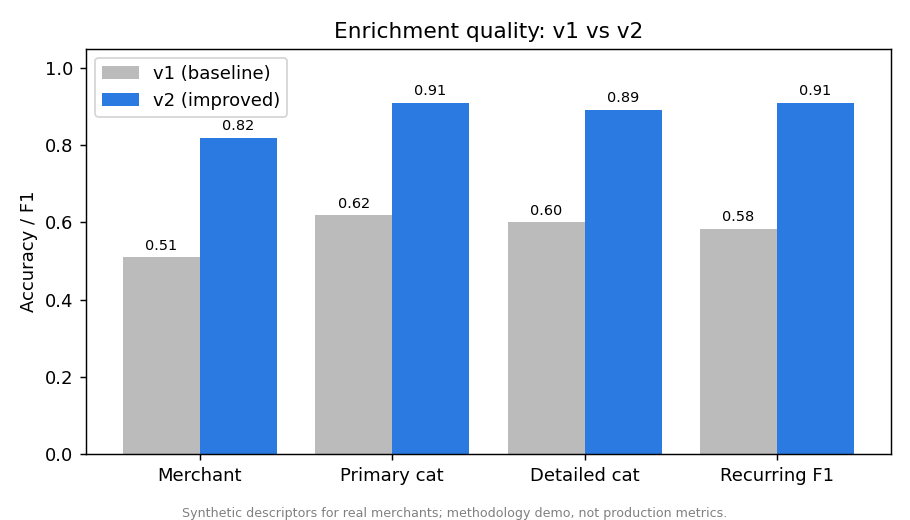
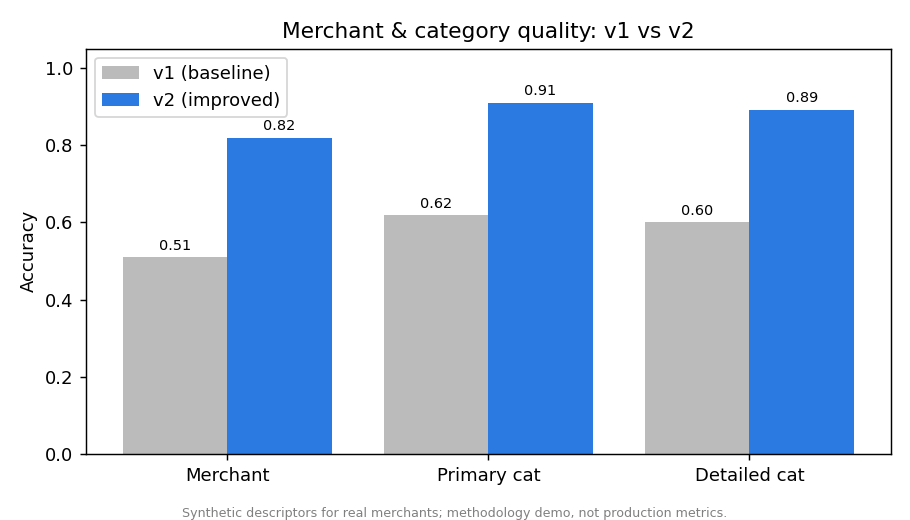
EnrichEval: reframe recurring as failure-mode demo, refresh accuracy figure

diff --git a/docs/projects/enrich-eval.html b/docs/projects/enrich-eval.html
@@ -243,7 +243,7 @@ Note
 </figure>
 </div>
 <p><strong>Finding 3 — “Better on average” can still break things.</strong> v2 improved 18 merchants but <em>broke one</em>: its smart new rule for delivery apps saw the <code>PYPL</code> (PayPal) prefix on a Steam game purchase and mislabeled it as PayPal, when v1 had correctly called it Steam. The rule that fixed many transactions quietly broke this one. <strong>This is the entire reason you run an evaluation on every change</strong> — a release that improves the average can still ship a specific, customer-visible regression.</p>
-<p><strong>Finding 4 — Some things can’t be known from one transaction.</strong> Recurring-subscription detection lands at an F1 of 0.91, and it’s deliberately not higher. You usually can’t tell a subscription from a single line of text — you’d need to see the charge repeat each month. The harness includes cases that prove it: a real gym membership with no telltale word (the system misses it) and a one-off purchase at a store named “Monthly Market” (the word <em>monthly</em> wrongly trips the recurring flag). An earlier draft scored a suspicious 1.0 here; that was an artifact of a tiny answer key, and adding cases the rule genuinely can’t solve replaced a misleading perfect score with an honest one. The real fix is looking at transaction history, not writing a cleverer rule for a single string.</p>
+<p><strong>Finding 4 — Some things can’t be known from one transaction.</strong> Recurring-subscription detection is the one thing here I <em>don’t</em> report as a headline score, on purpose. Whether a charge is part of a subscription is a fact about a <em>series</em> of transactions, so a system — or an evaluation — that sees one line at a time can’t honestly measure it. The harness keeps recurring as a failure-mode demonstration instead: a real gym membership with no telltale word gets missed, and a one-off purchase at a store named “Monthly Market” wrongly trips the flag because of the word <em>monthly</em>. (An earlier draft scored a perfect 1.0 here. That was an artifact of a tiny answer key where the labels and the detector keyed on the same words — and honestly, <em>any</em> number I’d quote would mostly reflect how many hard cases I chose to include, not real performance.) The real fix isn’t a cleverer string rule; it’s looking at transaction history.</p>
 </section>
 <section id="the-complaint-investigator-the-part-im-most-proud-of" class="level2">
 <h2 class="anchored" data-anchor-id="the-complaint-investigator-the-part-im-most-proud-of">The Complaint Investigator (the part I’m most proud of)</h2>